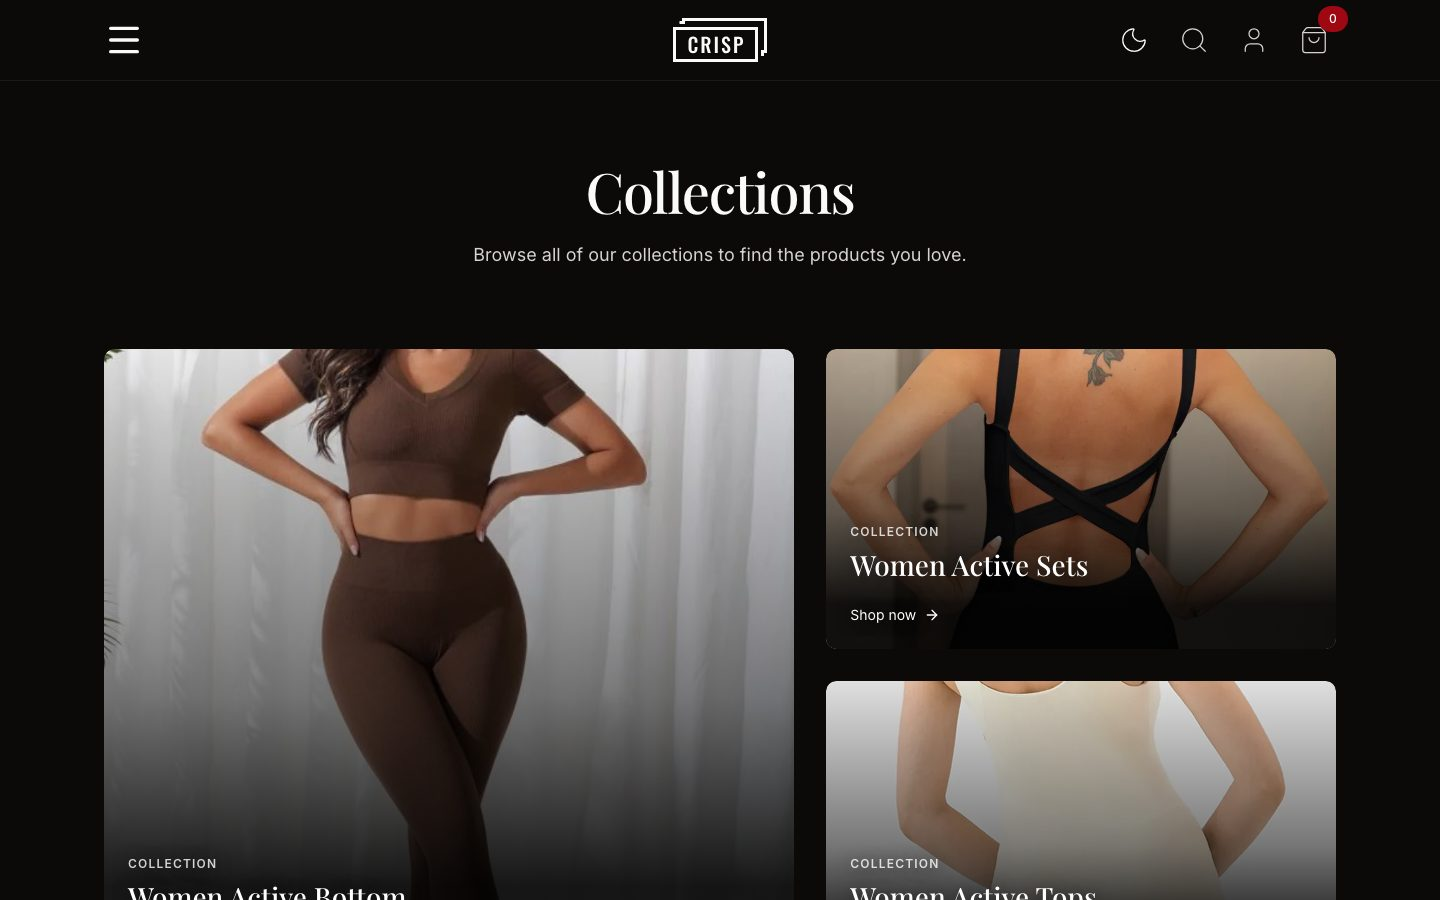
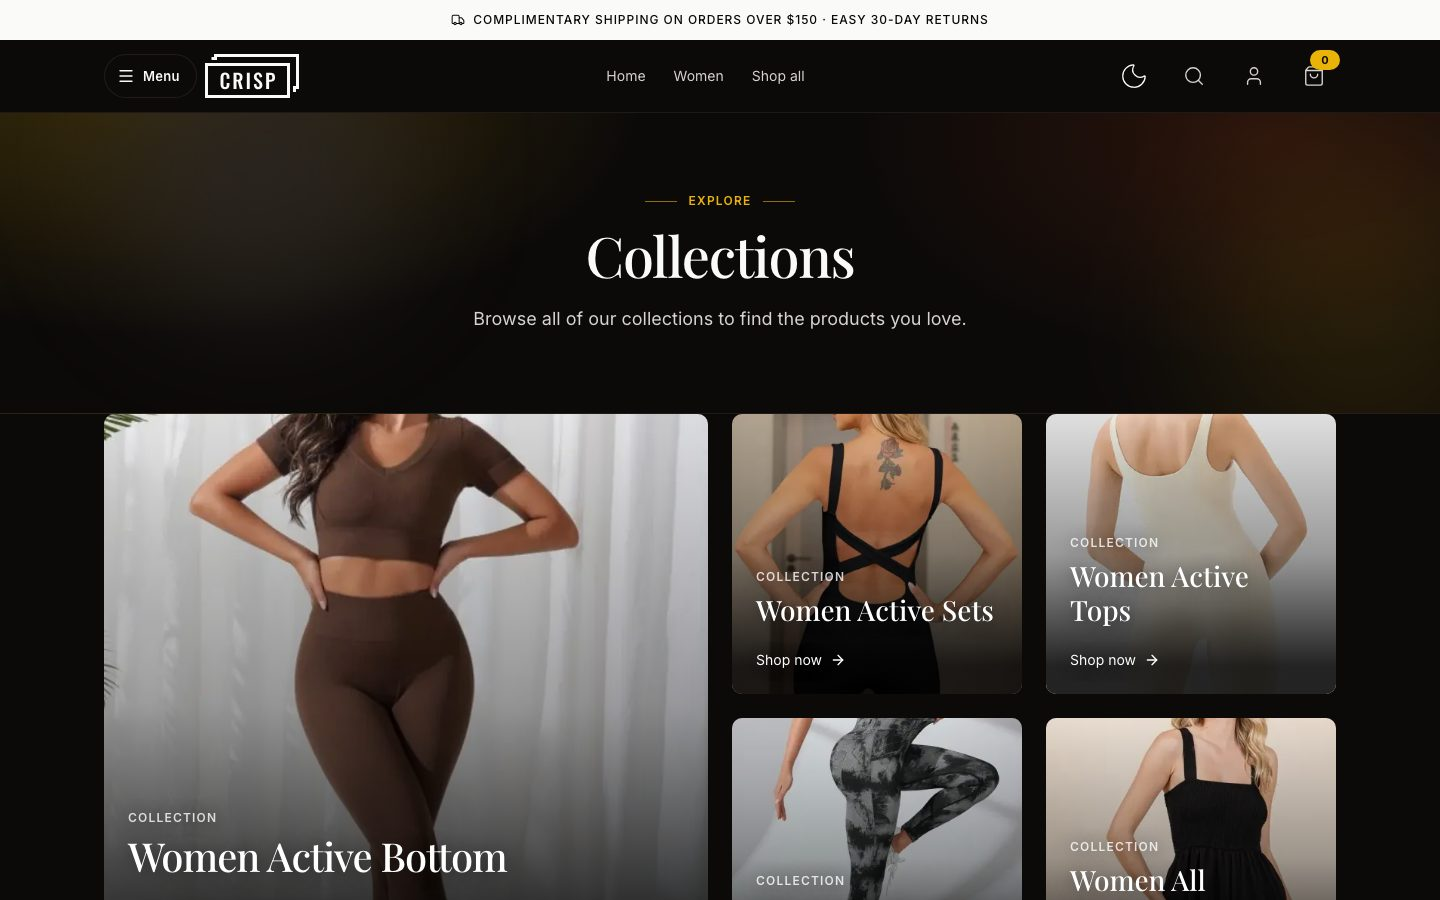
chore(screenshots): refresh portfolio project screenshots from live demo
Recapture home, collections, collection and product images from the
deployed storefront demo, and point the README screenshot command at the
current demo URL (previous URL returned 404).

diff --git a/README.md b/README.md
@@ -100,7 +100,7 @@ Portfolio images are generated locally with Playwright and served from `public/`
 upload). Point it at the deployed demo and re-run when the project changes:
 
 ```bash
-SCREENSHOT_BASE_URL=https://nextjs-shopify-storefront-demo.vercel.app npm run screenshots
+SCREENSHOT_BASE_URL=https://nextjs-shopify-storefront-demo-kevinsauvages-projects.vercel.app npm run screenshots
 ```
 
 It crawls the demo for the home, collections index, first collection and first product page, clears
